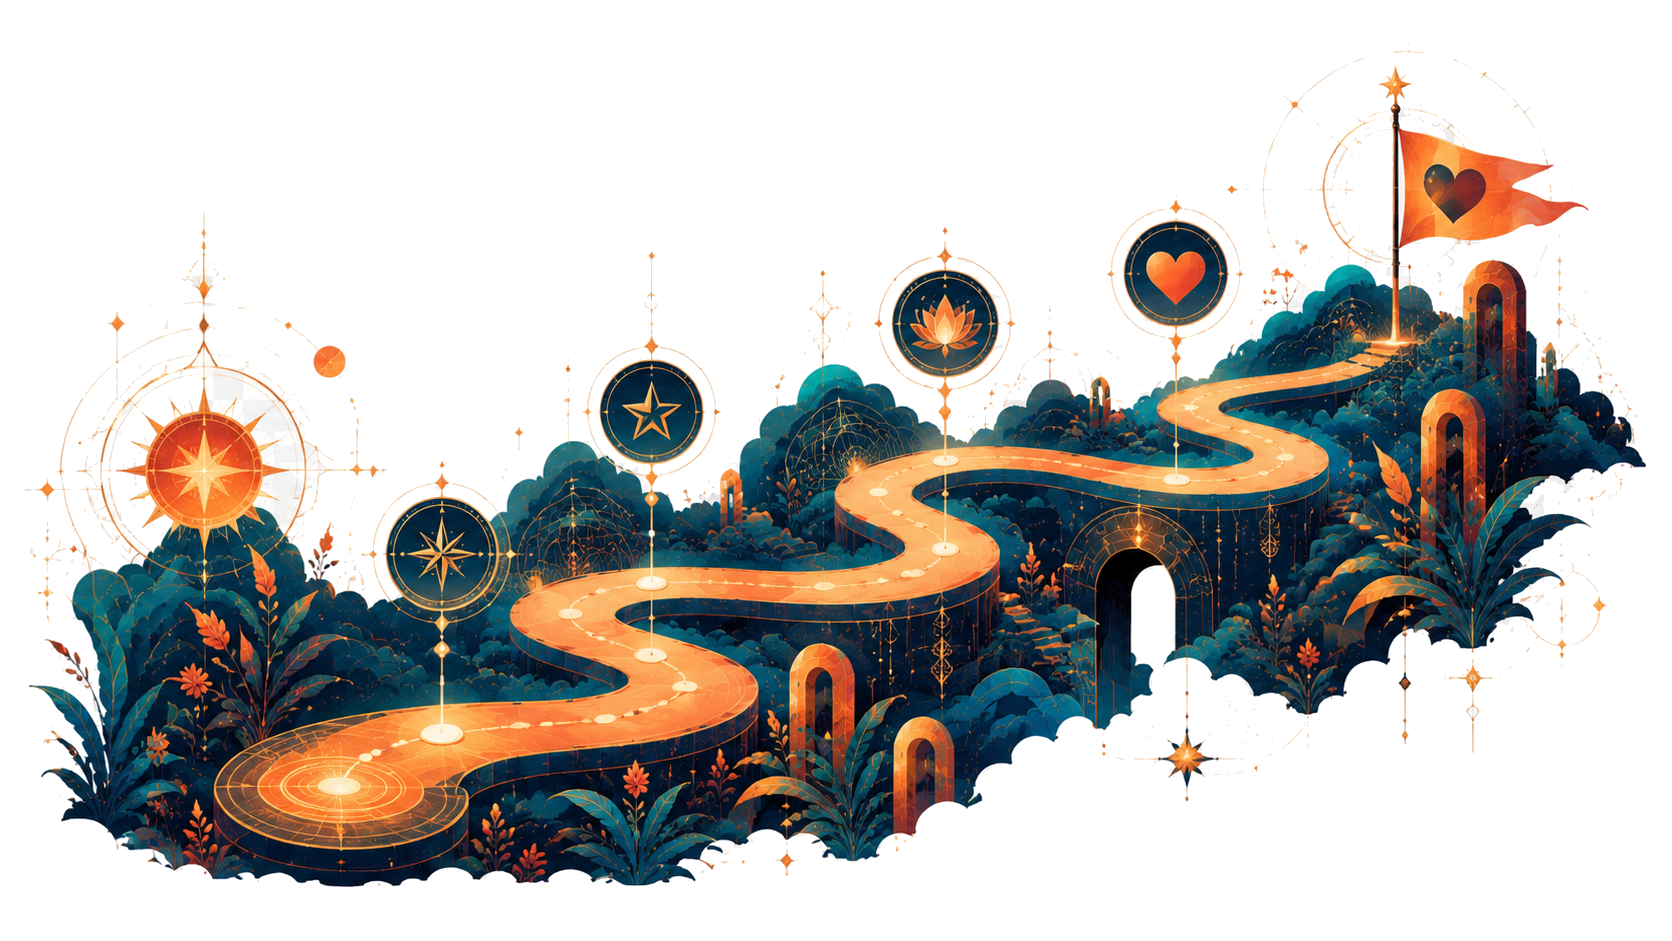
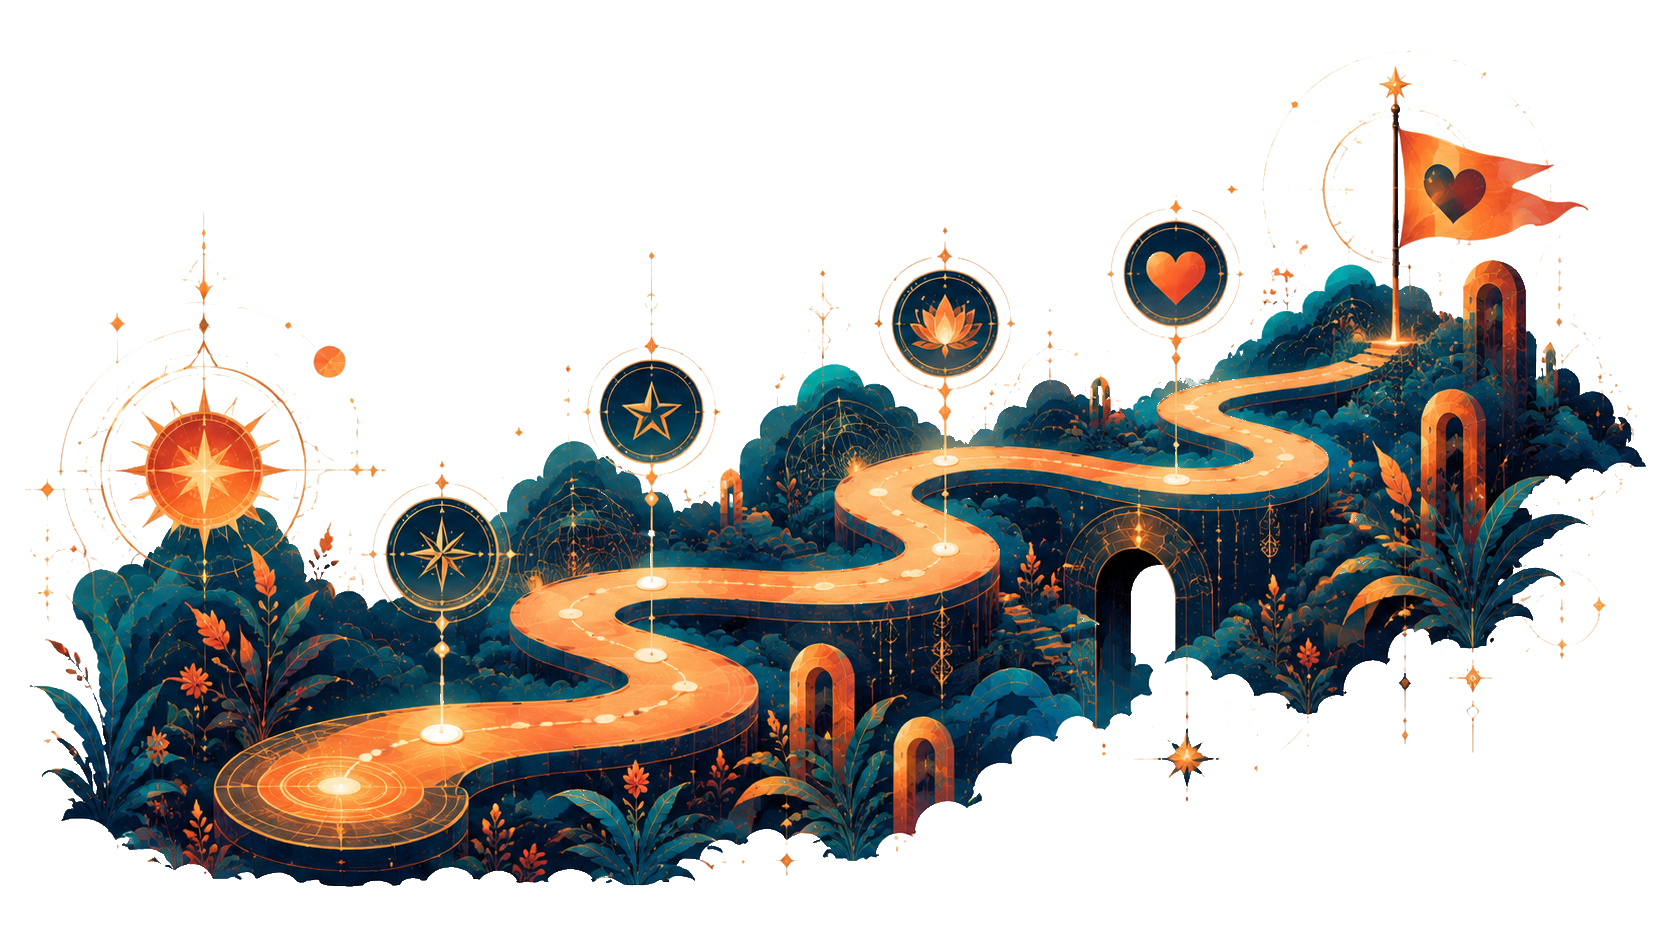
Clean transparent backgrounds for journey map and journal; events image full-width

Changed region(s): [[0.6842, 0.4006, 0.7153, 0.4315], [0.1866, 0.5855, 0.2177, 0.6164], [0.0311, 0.7088, 0.0622, 0.7396]]

diff --git a/index.html b/index.html
@@ -387,10 +387,8 @@
     <!-- ====================== 3. המפגשים הקרובים ====================== -->
     <section id="events" class="relative py-24 md:py-28" style="background:linear-gradient(180deg, transparent, rgba(20,56,74,.35), transparent);">
       <div class="max-w-6xl mx-auto px-5">
-        <div class="reveal max-w-md mx-auto mb-10">
-          <div class="imgframe rounded-3xl aspect-square">
-            <img src="images/01012133-4733-4662-b424-ac15b8834602.png" alt="יומן הרפתקה ובו המפגשים הקרובים" onerror="this.style.display='none'">
-          </div>
+        <div class="reveal max-w-3xl mx-auto mb-6">
+          <img src="images/events-transparent.png" class="w-full h-auto" alt="יומן הרפתקה ובו המפגשים הקרובים" onerror="this.style.display='none'">
         </div>
         <div class="text-center max-w-2xl mx-auto mb-12 reveal">
           <h2 class="text-4xl md:text-5xl font-extrabold mb-4">המפגשים הקרובים</h2>